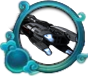
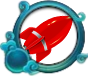
把units画完氢弹爆炸
还是有白边晚上再说吧- -

diff --git a/src/tools/DrawUnits.java b/src/tools/DrawUnits.java
@@ -24,6 +24,7 @@ import dataBase.DataBase;
 
 public class DrawUnits {
 	static JPanel panel;
+	static String[] pictures = new String[10];
 	public static void draw(Graphics g, JPanel p){
 		     panel = p;
 			/*
@@ -479,7 +480,54 @@ public class DrawUnits {
 		}
 	}
 	private static void drawHydrogenBomb(Graphics g,HydrogenBomb o){
-		
+		switch(o.getKind()){
+		case 1:
+			Image hbomb = new ImageIcon("graphics/soldiers/s3/HydrogenBomb.png").getImage();
+			if(o.moving){
+				if(!DataBase.isPause){
+					hbomb = new ImageIcon("graphics/soldiers/s3/HydrogenBomb.png").getImage();
+				}else{
+					hbomb = new ImageIcon("graphics/soldiers/s3/HydrogenBomb.png").getImage();
+				}
+			}else if(o.attacking){
+				if(!DataBase.isPause){
+					for(int i=1;i<11;i++){
+						pictures[i-1]="graphics/stunt/tech3_"+i+".png";
+					}
+					PicturePlayer player = new PicturePlayer(pictures,false,500);
+					player.panelPlay(o.getX()+20, o.getY()+10, g, panel, 0);
+					DataBase.playerList.remove(o);
+				}else{
+					hbomb = new ImageIcon("graphics/soldiers/s3/HydrogenBomb.png").getImage();
+				}
+			}
+			g.drawImage(hbomb,o.getX(), o.getY()+o.ran, 137, 62, panel);
+			break;
+		case 0:
+			Image hbomb0 = new ImageIcon("graphics/soldiers/en3/HydrogenBomb.png").getImage();
+			if(o.moving){
+				if(!DataBase.isPause){
+					hbomb0 = new ImageIcon("graphics/soldiers/en3/HydrogenBomb.gif").getImage();
+				}else{
+					hbomb0 = new ImageIcon("graphics/soldiers/en3/HydrogenBomb.png").getImage();
+				}
+			}else if(o.attacking){
+				if(!DataBase.isPause){
+					hbomb0 = new ImageIcon("graphics/soldiers/en3/HydrogenBomb.gif").getImage();
+				}else{
+					hbomb0 = new ImageIcon("graphics/soldiers/en3/HydrogenBomb.png").getImage();
+				}
+			}
+			g.drawImage(hbomb0,o.getX(), o.getY()+o.ran, 1020, 709, panel);
+			break;
+    	}
+    	int lifePercentage = (int)(40 * 1.0*(o.getHp()*1.00/DataBase.HYDROGENBOMB_HP));
+		g.setColor(Color.GREEN);
+		g.fill3DRect(o.getX(), o.getY()-10+o.ran, lifePercentage, 3, false);
+		if(lifePercentage!=40){
+			g.setColor(Color.RED);
+			g.fill3DRect(o.getX()+lifePercentage, o.getY()+o.ran-10, 40-lifePercentage, 3, false);
+	    }
 	}
     private static void drawSpaceCarrier(Graphics g,SpaceCarrier o){
     	switch(o.getKind()){
@@ -518,7 +566,14 @@ public class DrawUnits {
 			g.drawImage(carrier0,o.getX(), o.getY()+o.ran, 180, 120, panel);
 			break;
     	}
-	}
+    	int lifePercentage = (int)(40 * 1.0*(o.getHp()*1.00/DataBase.SPACECARRIER_HP));
+		g.setColor(Color.GREEN);
+		g.fill3DRect(o.getX(), o.getY()-10+o.ran, lifePercentage, 3, false);
+		if(lifePercentage!=40){
+			g.setColor(Color.RED);
+			g.fill3DRect(o.getX()+lifePercentage, o.getY()+o.ran-10, 40-lifePercentage, 3, false);
+	    }
+   }
     private static void drawSpaceMan(Graphics g,SpaceMan o){
     	switch(o.getKind()){
 		case 1:
@@ -556,6 +611,13 @@ public class DrawUnits {
 			g.drawImage(spaceman0,o.getX(), o.getY()+o.ran, 180, 120, panel);
 			break;
     	}
+    	int lifePercentage = (int)(40 * 1.0*(o.getHp()*1.00/DataBase.SPACEMAN_HP));
+		g.setColor(Color.GREEN);
+		g.fill3DRect(o.getX(), o.getY()-10+o.ran, lifePercentage, 3, false);
+		if(lifePercentage!=40){
+			g.setColor(Color.RED);
+			g.fill3DRect(o.getX()+lifePercentage, o.getY()+o.ran-10, 40-lifePercentage, 3, false);
+	    }
 	}
     private static void drawSpaceShip(Graphics g,SpaceShip o){
     	switch(o.getKind()){
@@ -563,15 +625,15 @@ public class DrawUnits {
 			Image spaceship = new ImageIcon("graphics/soldiers/s3/spaceship.png").getImage();
 			if(o.moving){
 				if(!DataBase.isPause){
-					spaceship = new ImageIcon("graphics/soldiers/s3/spaceship.gif").getImage();
+					spaceship = new ImageIcon("graphics/soldiers/s3/spaceship.png").getImage();
 				}else{
-					spaceship = new ImageIcon("graphics/soldiers/s3/spaceship.gif").getImage();
+					spaceship = new ImageIcon("graphics/soldiers/s3/spaceship.png").getImage();
 				}
 			}else if(o.attacking){
 				if(!DataBase.isPause){
-					spaceship = new ImageIcon("graphics/soldiers/s3/spaceship.gif").getImage();
+					spaceship = new ImageIcon("graphics/soldiers/s3/spaceship.png").getImage();
 				}else{
-					spaceship = new ImageIcon("graphics/soldiers/s3/spaceship.gif").getImage();
+					spaceship = new ImageIcon("graphics/soldiers/s3/spaceship.png").getImage();
 				}
 			}
 			g.drawImage(spaceship,o.getX(), o.getY()+o.ran, 1020, 709, panel);
@@ -594,6 +656,14 @@ public class DrawUnits {
 			g.drawImage(spaceship0,o.getX(), o.getY()+o.ran, 1020, 709, panel);
 			break;
     	}
+    	int lifePercentage = (int)(40 * 1.0*(o.getHp()*1.00/DataBase.SPACESHIP_HP));
+		g.setColor(Color.GREEN);
+		g.fill3DRect(o.getX(), o.getY()-10+o.ran, lifePercentage, 3, false);
+		if(lifePercentage!=40){
+			g.setColor(Color.RED);
+			g.fill3DRect(o.getX()+lifePercentage, o.getY()+o.ran-10, 40-lifePercentage, 3, false);
+	    }
+    	
 	}
     /**
 	 * draw castle
@@ -655,10 +725,6 @@ public class DrawUnits {
 		}
 	}	
 	
-	private static void drawSecondCastle(Graphics g, SecondCastle o){
-		if(DataBase.pass==3){
-			g.drawImage(new ImageIcon("graphics/soldiers/spacestaion.png").getImage(), o.getX(), o.getY(), 150,15,panel);
-		}
-	}
+	
   
 }

diff --git a/src/tools/PicturePlayer.java b/src/tools/PicturePlayer.java
@@ -25,7 +25,7 @@ public class PicturePlayer {
 	//define image size
 	private int imageSize = 10;
 	//set time
-	public static int time0= 1000;
+	public static int time0= 3000;
 	public static int time1 = 1000;
 	public static int time2 = 1000;
 	public static int time3 = 1000;
